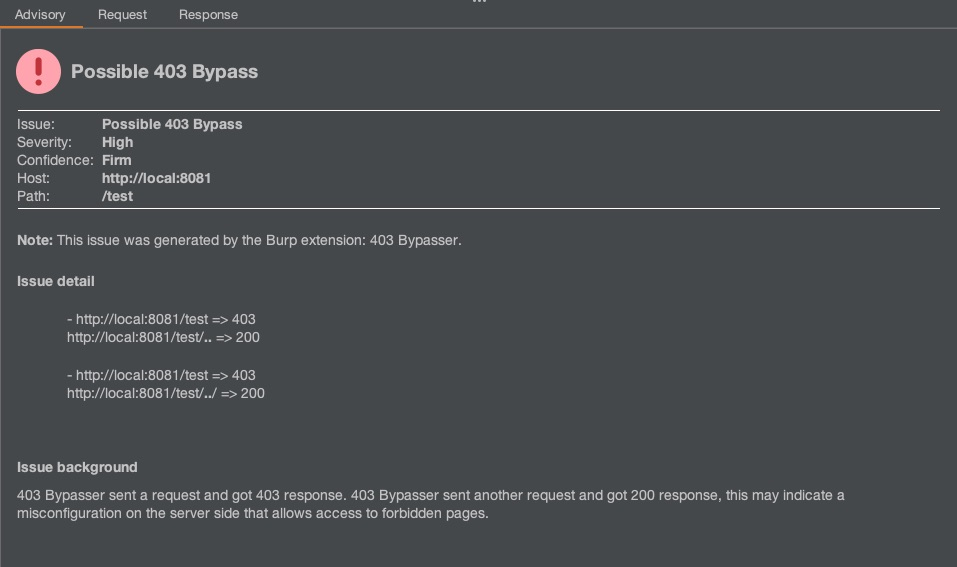
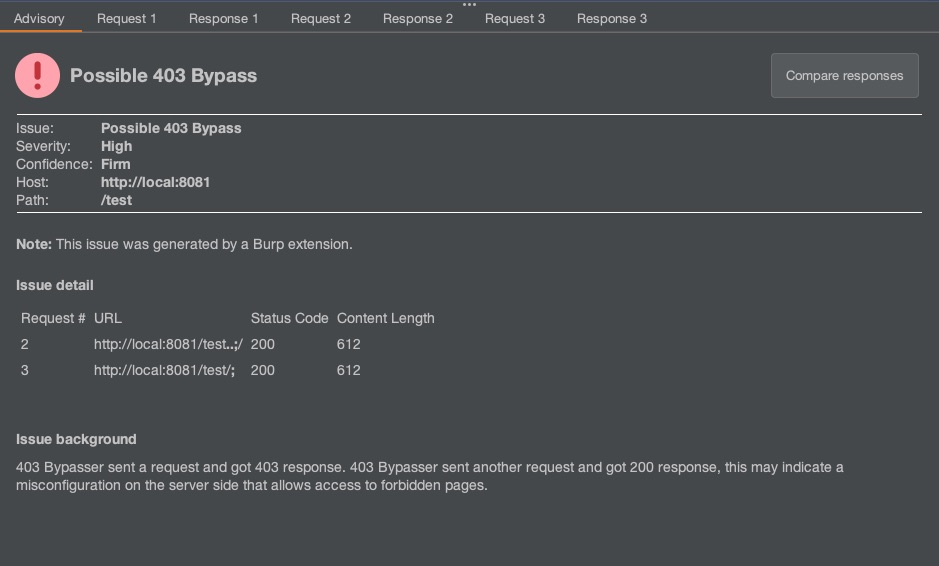
Improved Issue details. Now showing request # and content length.

diff --git a/403Bypasser.py b/403Bypasser.py
@@ -12,6 +12,7 @@ headerPayloadsFile = open('header payloads.txt', "r")
 headerPayloadsFromFile = headerPayloadsFile.readlines()
 
 extentionName = "403 Bypasser"
+requestNum = 2
 
 class BurpExtender(IBurpExtender, IScannerCheck, IContextMenuFactory):
 	def registerExtenderCallbacks(self, callbacks):
@@ -82,20 +83,29 @@ class BurpExtender(IBurpExtender, IScannerCheck, IContextMenuFactory):
 		requestPath = request.getUrl().getPath()
 		payloads = self.generatePayloads(requestPath, payload)
 
+
 		originalRequest = self.helpers.bytesToString(request.getRequest())
 		for pathToTest in payloads:
 			newRequest = originalRequest.replace(requestPath, pathToTest)
 			newRequestResult = self.callbacks.makeHttpRequest(httpService, newRequest)
 			newRequestStatusCode = str(self.helpers.analyzeResponse(newRequestResult.getResponse()).getStatusCode())
 
+
 			if newRequestStatusCode == "200":
 				originalRequestUrl = str(request.getUrl())
 				vulnerableReuqestUrl = originalRequestUrl.replace(requestPath,pathToTest)
 
+				responseHeaders = str(self.helpers.analyzeResponse(newRequestResult.getResponse()).getHeaders()).split(",")
+				for header in responseHeaders:
+					if "Content-Length: " in header:
+						resultContentLength = header[17:]
+
 				issue = []
-				issue.append("<ul>- " + originalRequestUrl + " => 403<br>" + "  " + vulnerableReuqestUrl.replace(payload, "<b>" + payload + "</b>") + " => " + newRequestStatusCode + "</ul>")
+				global requestNum
+				issue.append("<tr><td>" + str(requestNum) + "</td><td>" + vulnerableReuqestUrl.replace(payload, "<b>" + payload + "</b>") + "</td> <td>" + newRequestStatusCode + "</td> <td>" + resultContentLength + "</td></tr>")
 				issue.append(newRequestResult)
 				results.append(issue)
+				requestNum += 1
 
 		if len(results) > 0:
 			return results
@@ -130,9 +140,14 @@ class BurpExtender(IBurpExtender, IScannerCheck, IContextMenuFactory):
 
 		if newRequestStatusCode == "200":
 			originalRequestUrl = str(request.getUrl())
+			responseHeaders = str(self.helpers.analyzeResponse(newRequestResult.getResponse()).getHeaders()).split(",")
+			for header in responseHeaders:
+				if "Content-Length: " in header:
+					resultContentLength = header[17:]
 
 			issue = []
-			issue.append("<ul>- Same request with added header " + payload + "returned status " + newRequestStatusCode + " </ul>")
+			global requestNum
+			issue.append("<tr><td>" + str(requestNum) + "</td><td>header: " + payload + "</td> <td>" + newRequestStatusCode + "</td> <td>" + resultContentLength + "</td></tr>")
 			issue.append(newRequestResult)
 			results.append(issue)
 
@@ -183,7 +198,7 @@ class BurpExtender(IBurpExtender, IScannerCheck, IContextMenuFactory):
 				self.helpers.analyzeRequest(baseRequestResponse).getUrl(),
 				issueHttpMessages,
 				"Possible 403 Bypass",
-				"".join(issueDetails),
+				"<table><tr><td>Request #</td><td>URL</td><td>Status Code</td><td>Content Length</td></tr>" + "".join(issueDetails) + "</table>",
 				"High",
 				)]
 		#test for header-based issues
@@ -207,7 +222,7 @@ class BurpExtender(IBurpExtender, IScannerCheck, IContextMenuFactory):
 				self.helpers.analyzeRequest(baseRequestResponse).getUrl(),
 				issueHttpMessages,
 				"Possible 403 Bypass - Header Based",
-				"".join(issueDetails),
+				"<table><tr><td>Request #</td><td>URL</td><td>Status Code</td><td>Content Length</td></tr>" + "".join(issueDetails) + "</table>",
 				"High",
 				)]
 		return None
